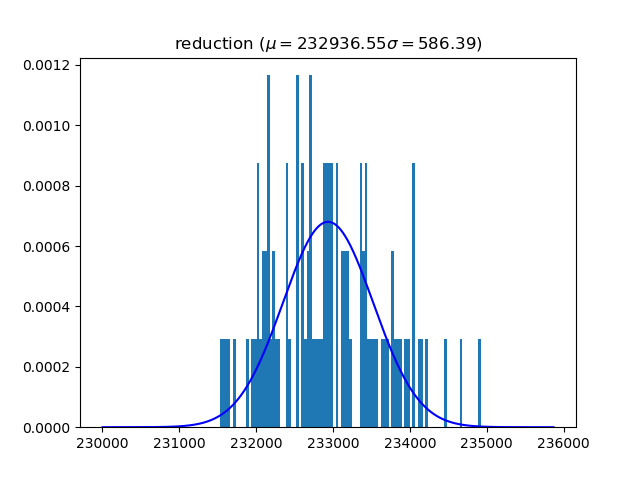
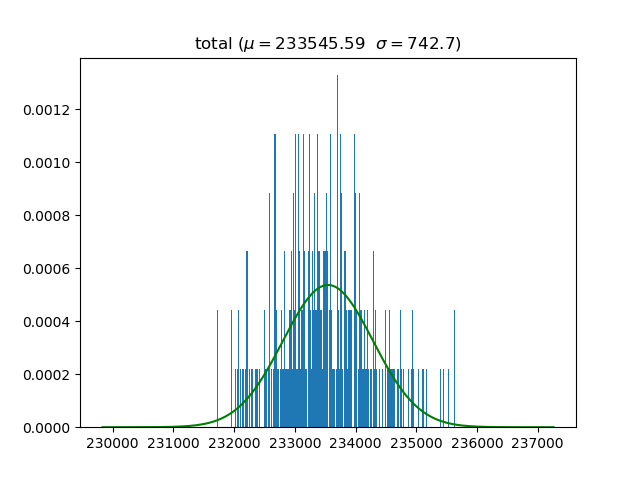
update

diff --git a/ec_elgamal.py b/ec_elgamal.py
@@ -25,7 +25,7 @@ B = 0x0000000000000000000000000000000000000000000000000000000000000007
 N = 100
 P_DOUBLE = 5/6
 P_ADD = 2/3
-LOOP = 1000
+LOOP = 500
 
 # =============================
 # variables for analysis
@@ -204,7 +204,7 @@ if __name__ == '__main__':
   GP = MsgToPoint(0xffffffff222ffff9dcbbac55eeefffffffff)
 
   # generate secret key and public key
-  d = 0x49be667ef9dcbbac55b06295ce870b0702900cdb2dce28d959f2815b16f81798
+  d = 0x49be667ef9dcbbac55b06295ce870b0702900cdb2dce28d959f9425b16f81798
   d_bit_seq = bin(d)[2:]
   t = len(d_bit_seq)
   w = d_bit_seq.count("1")
@@ -250,6 +250,10 @@ if __name__ == '__main__':
   print("=================== egcd ==================")
   print("Average of egcd count (theoretical, namely alpha): {0}".format(alpha))
   print("Average of egcd count (experimental) = {0}".format(stat.mean(egcd_count_list)))
+  print("Standard deviation of egcd count (theoretical, namely alpha): {0}".format(root))
+  print("Standard deviation of egcd count (experimental) = {0}".format(stat.pstdev(egcd_count_list)))
+  print("Variance value of egcd count (theoretical, namely alpha): {0}".format(root**2))
+  print("Variance value of egcd count (experimental) = {0}".format(stat.pvariance(egcd_count_list)))
   print("================== multiplication ===================")
   print("Average multiplication (theoretical) = {0}".format(mu_mult))
   print("Average multiplication (experimental) = {0}".format(stat.mean(mult_list)))
@@ -271,10 +275,17 @@ if __name__ == '__main__':
   print("Standard deviation of computation (experimental) = {0}".format(stat.pstdev(total_list)))
   print("Variance value of computation (theoretical) = {0}".format(sigma**2))
   print("Variance value of computation (experimental) = {0}".format(stat.pvariance(total_list)))
-  print("================== check wheter normal distribution (p > 0.05) ===================")
-  print("multiply: {0}".format(stats.shapiro(mult_list)))
-  print("reduction: {0}".format(stats.shapiro(reduction_list)))
-  print("total count: {0}".format(stats.shapiro(total_list)))
+  print("================== test wheter normal distribution (p > 0.05) ===================")
+  if LOOP <= 5000:
+    print("Shapiro-Wilk test")
+    print("multiply: {0}".format(stats.shapiro(mult_list)))
+    print("reduction: {0}".format(stats.shapiro(reduction_list)))
+    print("total count: {0}".format(stats.shapiro(total_list)))
+  else:
+    print("Kolmogorov–Smirnov test")
+    print("multiply: {0}".format(stats.kstest(mult_list, "norm")))
+    print("reduction: {0}".format(stats.kstest(reduction_list, "norm")))
+    print("total count: {0}".format(stats.kstest(total_list, "norm")))
 
 
   # ====================
@@ -306,8 +317,8 @@ if __name__ == '__main__':
   plt.hist(total_list, bins=len(set(total_list)), density=True)
   X = np.arange(mu-sigma*5, mu+sigma*5, 1)
   Y = norm.pdf(X, loc=mu, scale=sigma)
-  plt.plot(X, Y, 'b-')
-  plt.title("reduction ($\mu = {0} \ \  \sigma = {1}$)".format(round(mu, 2), round(sigma, 2)))
+  plt.plot(X, Y, 'g-')
+  plt.title("total ($\mu = {0} \ \  \sigma = {1}$)".format(round(mu, 2), round(sigma, 2)))
   plt.savefig("ec_elgamal_total.png")
   plt.show()
 
@@ -317,7 +328,7 @@ if __name__ == '__main__':
   plt.hist(total_list, bins=len(set(total_list)), density=True)
   X = np.arange(mu-sigma*5, mu+sigma*5, 1)
   Y = norm.pdf(X, loc=mu, scale=sigma)
-  plt.plot(X, Y, 'b-')
+  plt.plot(X, Y, 'g-')
   plt.savefig("ec_elgamal_total_sum.png")
   plt.show()
 
